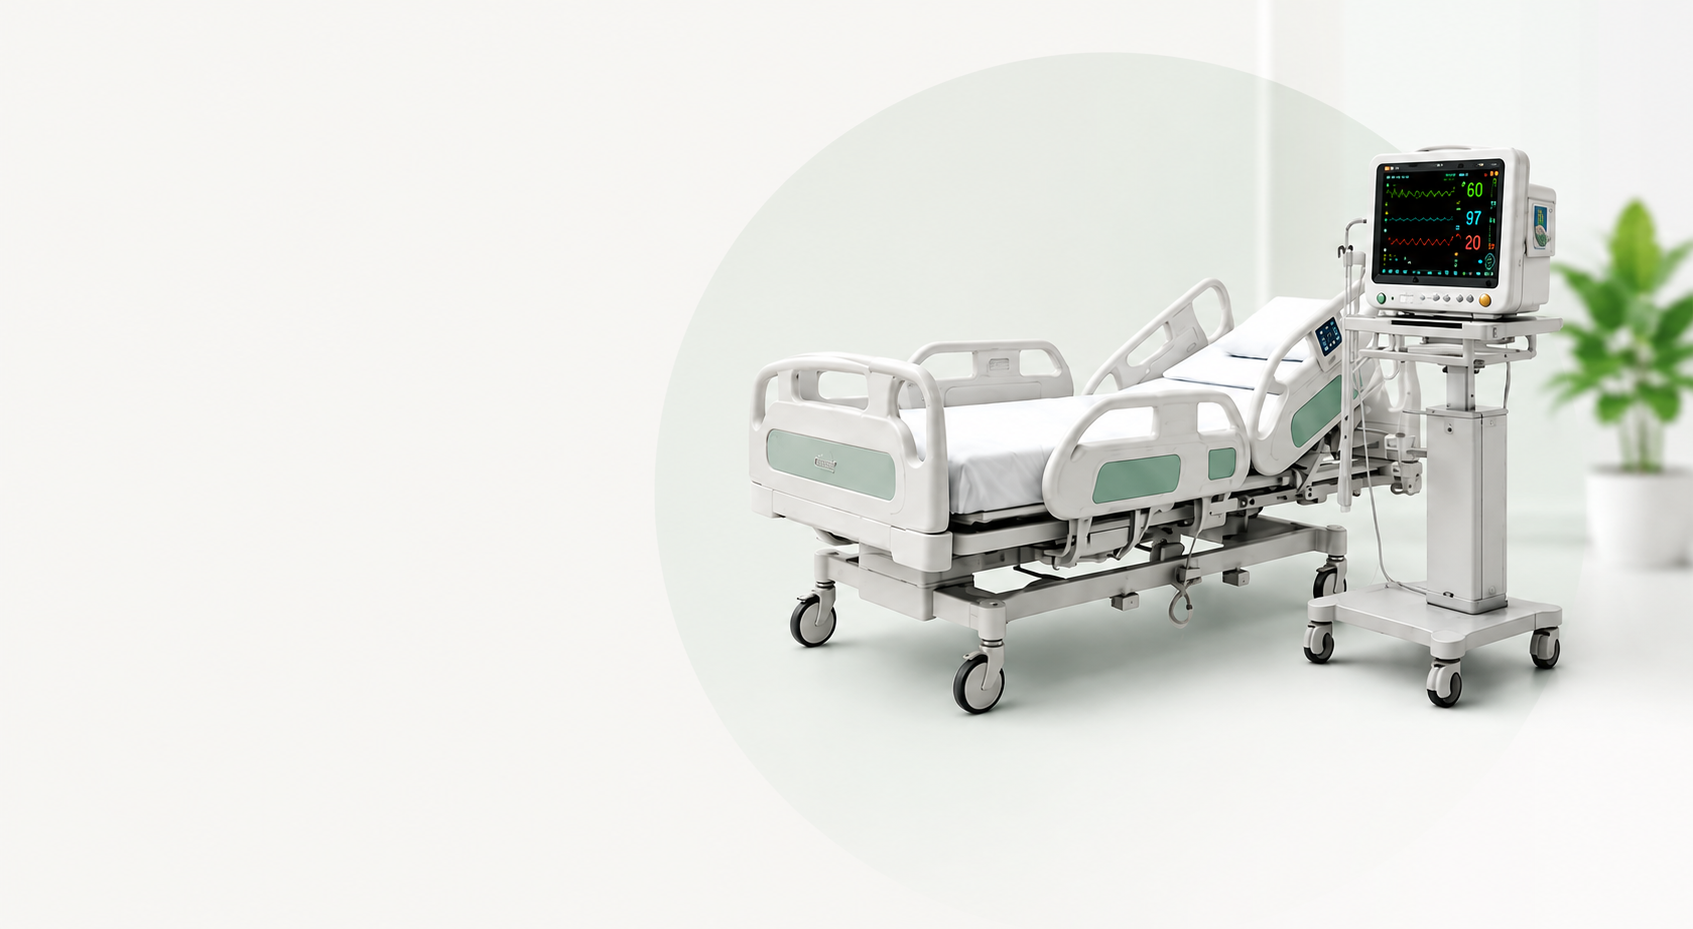
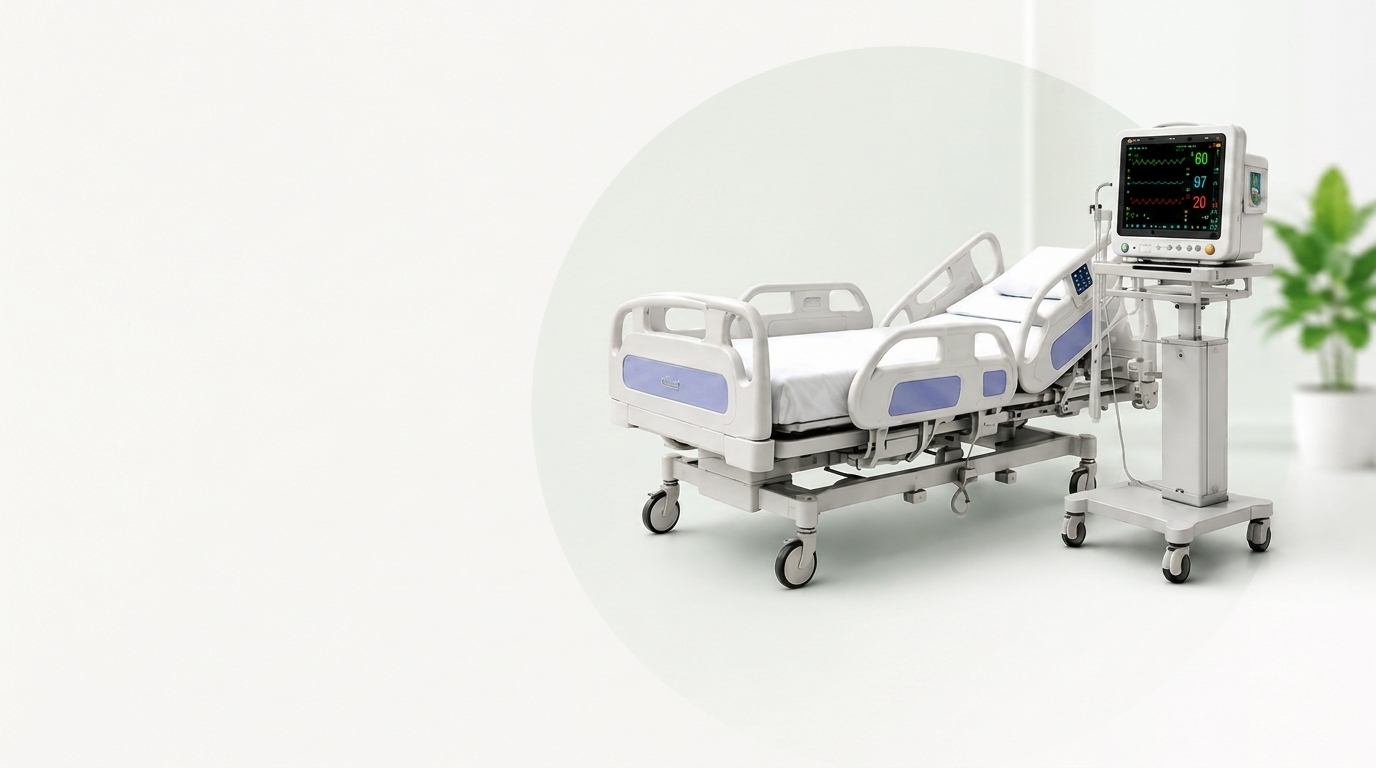
changes

diff --git a/index.html b/index.html
@@ -327,48 +327,7 @@
             </div>
         </section>
 
-        <!-- Final CTA -->
-        <section class="final-cta">
-            <div class="container cta-container" data-aos="zoom-in">
-                <img src="assets/bg/cta-outline-1.png" class="cta-bg-img left" alt=""
-                    style="opacity: 0.15; height: 160px; mix-blend-mode: multiply; filter: contrast(1.2);">
-                <div class="cta-content">
-                    <div class="cta-text">
-                        <h3>Need Help Finding the Right Equipment?</h3>
-                        <p>Tell us what you're looking for. Our team will help you find the right solution.</p>
-                    </div>
-                    <button class="btn btn-primary" onclick="openQuoteModal()">Enquire Now &rarr;</button>
-                    <div class="cta-contact-item">
-                        <span class="icon" style="display: flex; align-items: center;"><svg
-                                xmlns="http://www.w3.org/2000/svg" width="20" height="20" viewBox="0 0 24 24"
-                                fill="none" stroke="#0A8F55" stroke-width="2" stroke-linecap="round"
-                                stroke-linejoin="round">
-                                <path
-                                    d="M22 16.92v3a2 2 0 0 1-2.18 2 19.79 19.79 0 0 1-8.63-3.07 19.5 19.5 0 0 1-6-6 19.79 19.79 0 0 1-3.07-8.67A2 2 0 0 1 4.11 2h3a2 2 0 0 1 2 1.72 12.84 12.84 0 0 0 .7 2.81 2 2 0 0 1-.45 2.11L8.09 9.91a16 16 0 0 0 6 6l1.27-1.27a2 2 0 0 1 2.11-.45 12.84 12.84 0 0 0 2.81.7A2 2 0 0 1 22 16.92z" />
-                            </svg></span>
-                        <div>
-                            <span class="label">Call Us</span>
-                            <span class="value" id="cta-phone">+91 98765 43210</span>
-                        </div>
-                    </div>
-                    <div class="cta-contact-item" style="cursor:pointer;" onclick="contactWhatsApp()">
-                        <span class="icon whatsapp">
-                            <svg xmlns="http://www.w3.org/2000/svg" width="24" height="24" fill="#25D366"
-                                viewBox="0 0 16 16">
-                                <path
-                                    d="M13.601 2.326A7.854 7.854 0 0 0 7.994 0C3.627 0 .068 3.558.064 7.926c0 1.399.366 2.76 1.057 3.965L0 16l4.204-1.102a7.933 7.933 0 0 0 3.79.965h.004c4.368 0 7.926-3.558 7.93-7.93A7.898 7.898 0 0 0 13.6 2.326zM7.994 14.521a6.573 6.573 0 0 1-3.356-.92l-.24-.144-2.494.654.666-2.433-.156-.251a6.56 6.56 0 0 1-1.007-3.505c0-3.626 2.957-6.584 6.591-6.584a6.56 6.56 0 0 1 4.66 1.931 6.557 6.557 0 0 1 1.928 4.66c-.004 3.639-2.961 6.592-6.592 6.592zm3.615-4.934c-.197-.099-1.17-.578-1.353-.646-.182-.065-.315-.099-.445.099-.133.197-.513.646-.627.775-.114.133-.232.148-.43.05-.197-.1-.836-.308-1.592-.985-.59-.525-.985-1.175-1.103-1.372-.114-.198-.011-.304.088-.403.087-.088.197-.232.296-.346.1-.114.133-.198.198-.33.065-.134.034-.248-.015-.347-.05-.099-.445-1.076-.612-1.47-.16-.389-.323-.335-.445-.34-.114-.004-.247-.007-.38-.007a.729.729 0 0 0-.529.247c-.182.198-.691.677-.691 1.654 0 .977.71 1.916.81 2.049.098.133 1.394 2.132 3.383 2.992.47.205.84.326 1.129.418.475.152.904.129 1.246.08.38-.058 1.171-.48 1.338-.943.164-.464.164-.86.114-.943-.049-.084-.182-.133-.38-.232z" />
-                            </svg>
-                        </span>
-                        <div>
-                            <span class="label">WhatsApp</span>
-                            <span class="value">Chat with us</span>
-                        </div>
-                    </div>
-                </div>
-                <img src="assets/bg/cta-outline-2.png" class="cta-bg-img right" alt=""
-                    style="opacity: 0.15; height: 160px; mix-blend-mode: multiply; filter: contrast(1.2);">
-            </div>
-        </section>
+        <!-- Final CTA Section Removed -->
     </main>
 
     <!-- Footer -->

diff --git a/css/style.css b/css/style.css
@@ -1,8 +1,8 @@
 :root {
-    --primary: #075C3A;
-    --primary-light: #E8F3EC;
-    --primary-hover: #064A2E;
-    --secondary: #0A8F55;
+    --primary: #313B82;
+    --primary-light: #E8EAF6;
+    --primary-hover: #262D66;
+    --secondary: #607D8B;
     --background: #F7F8F5;
     --surface: #FFFFFF;
     --text: #17211D;
@@ -1289,16 +1289,16 @@ p {
 
 /* Footer */
 .footer {
-    background-color: #0d4d33;
+    background-color: var(--primary);
     color: white;
-    padding: 32px 0 16px;
+    padding: 20px 0 10px;
     font-size: 14px;
 }
 
 .footer-grid-compact {
     display: grid;
     grid-template-columns: 1.5fr 1fr 1fr 1fr 1.5fr;
-    margin-bottom: 24px;
+    margin-bottom: 16px;
 }
 
 .footer-col-compact {
@@ -1317,12 +1317,12 @@ p {
 
 .footer-logo-compact {
     height: 40px;
-    margin-bottom: 16px;
+    margin-bottom: 12px;
 }
 
 .footer-desc {
     color: rgba(255, 255, 255, 0.8);
-    margin-bottom: 16px;
+    margin-bottom: 8px;
     line-height: 1.4;
 }
 
@@ -1353,7 +1353,7 @@ p {
 .footer-col-compact h4 {
     color: white;
     font-size: 16px;
-    margin-bottom: 16px;
+    margin-bottom: 12px;
 }
 
 .footer-col-compact ul {
@@ -1391,7 +1391,7 @@ p {
     text-align: center;
     color: rgba(255, 255, 255, 0.5);
     font-size: 13px;
-    padding-top: 24px;
+    padding-top: 16px;
 }
 
 /* Modal */

diff --git a/js/script.js b/js/script.js
@@ -369,5 +369,5 @@ window.addEventListener('load', () => {
             loader.classList.add('loader-hidden');
             document.body.style.overflow = 'auto'; // Re-enable scrolling
         }
-    }, 1500); // 1.5 seconds delay
+    }, 1000); // 1.0 seconds delay
 });
